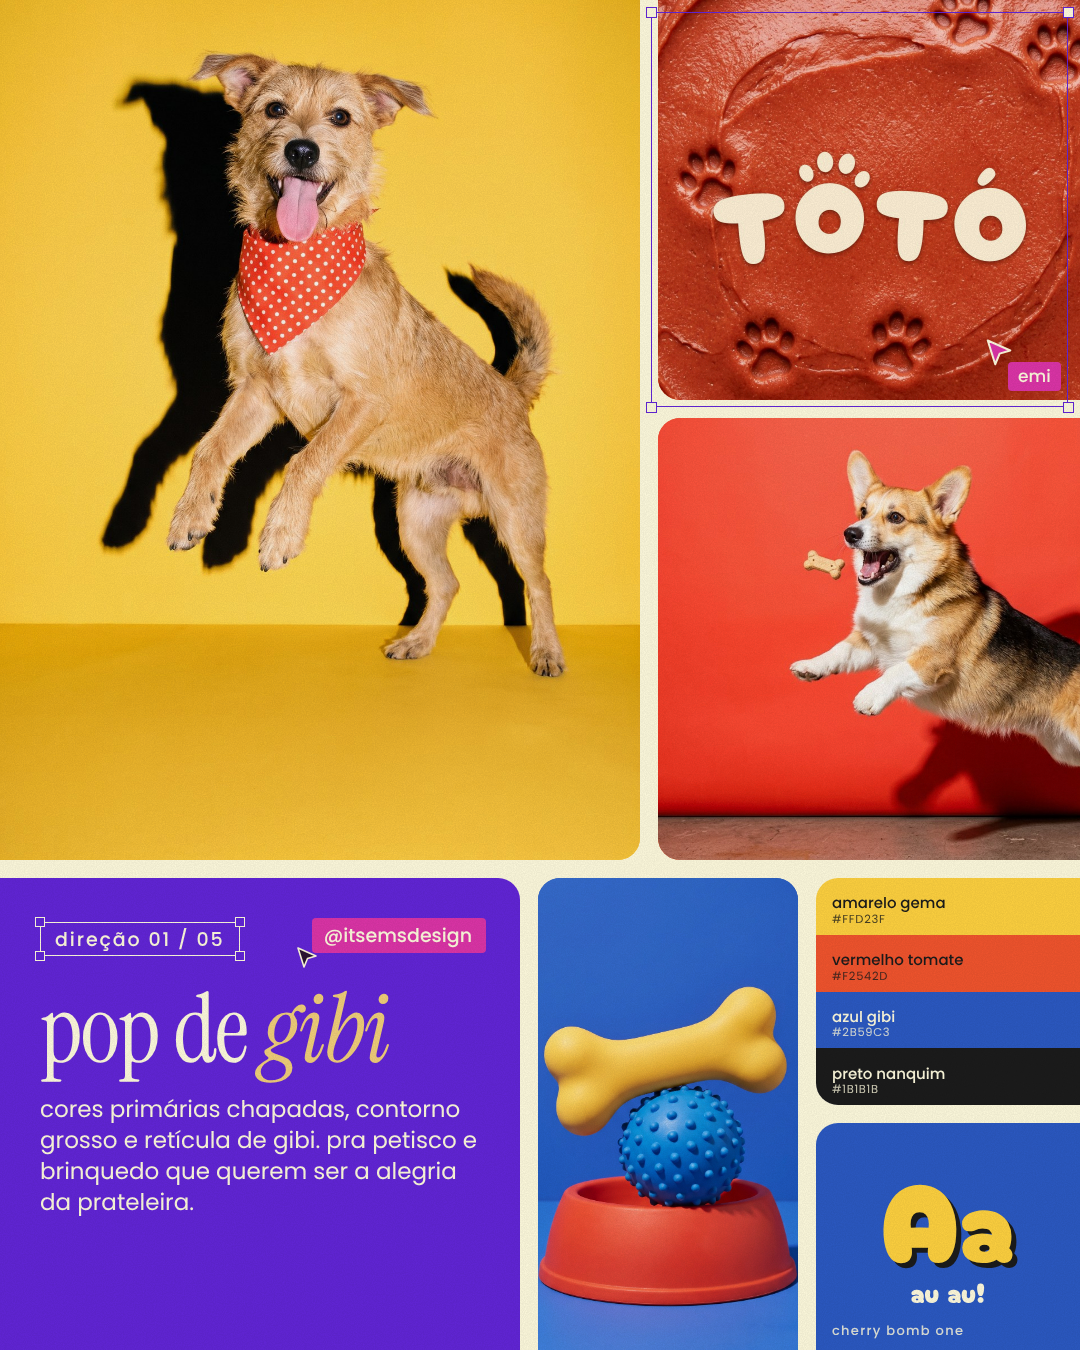
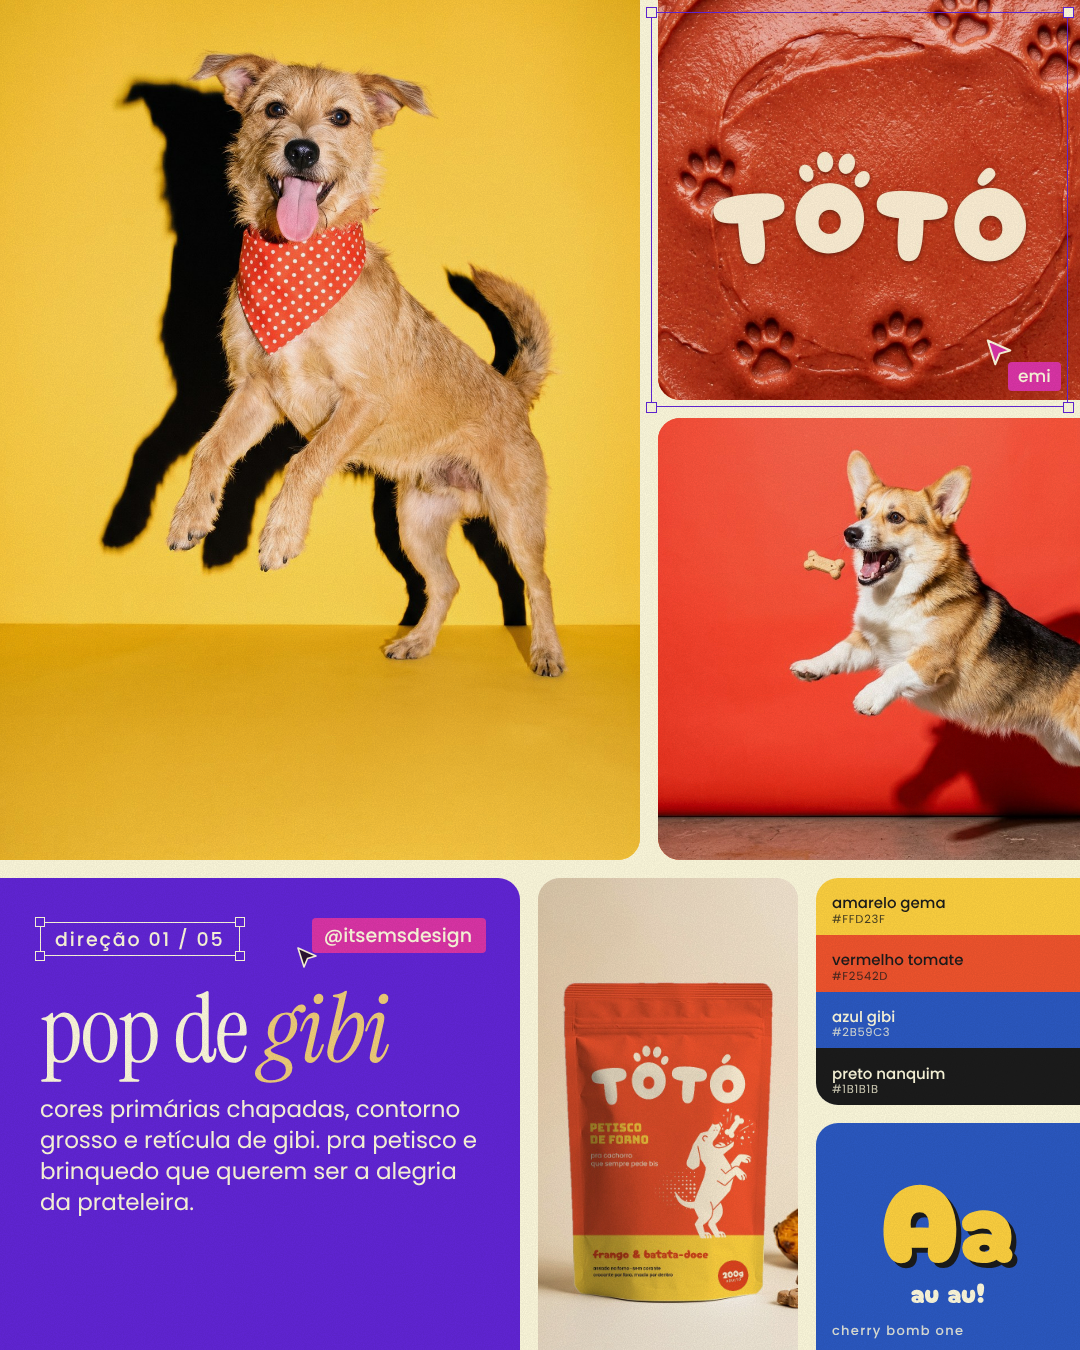
EMS carrossel pet: pacote TOTÓ (aprovado) no quadro vertical da lâmina 02
Claude-Session: https://claude.ai/code/session_01CmCiK9WG5RWJH1hBNUU9U9

Changed region(s): [[0.4889, 0.6533, 0.7639, 1.0]]

diff --git a/Emi/ems-5-direcoes-pet/projeto/direcoes.js b/Emi/ems-5-direcoes-pet/projeto/direcoes.js
@@ -123,7 +123,7 @@ const DIRECOES = [
     // Arte em marcas/toto/logo.html (?pata=anel); a imagem do quadro é gerada por ela (img/toto-marca.jpg).
     marca: { bg: '#F2542D', cheia: { src: 'toto-marca', px: .5, py: .5 }, cursor: [326, 338] },
     quadrado: { bg: '#F2542D', cheia: { src: 'd1extra', px: .04, py: .5 } },
-    alto: { bg: '#2B59C3', cheia: { src: 'd1prod-1', px: .5, py: .45 } },
+    alto: { bg: '#F4E9D6', cheia: { src: 'toto-pacote', px: .5, py: .45 } },   // aplicação aprovada: pacote TOTÓ (marcas/toto/mockup)
     paleta: [['amarelo gema', '#FFD23F', '#1B1B1B'], ['vermelho tomate', '#F2542D', '#1B1B1B'], ['azul gibi', '#2B59C3', '#FFFBDE'], ['preto nanquim', '#1B1B1B', '#FFFBDE']],
     tipo: { bg: '#2B59C3', aa: "400 112px 'Cherry Bomb One'", aaCor: '#FFD23F', sombra: '5px 5px 0 #1B1B1B', amostra: 'au au!', amostraCss: "400 28px 'Cherry Bomb One'", cor: '#FFFBDE', nome: 'cherry bomb one' },
   },
